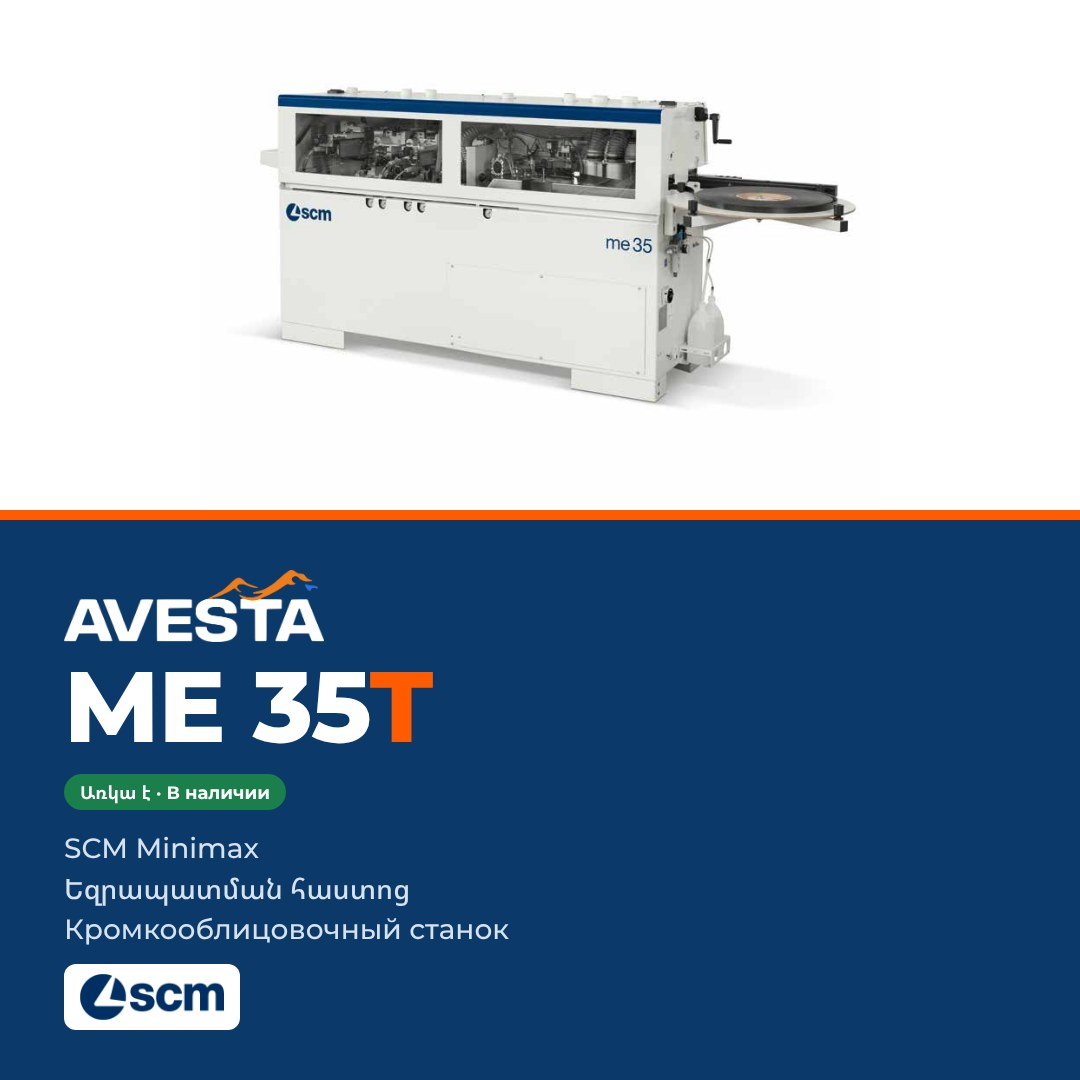
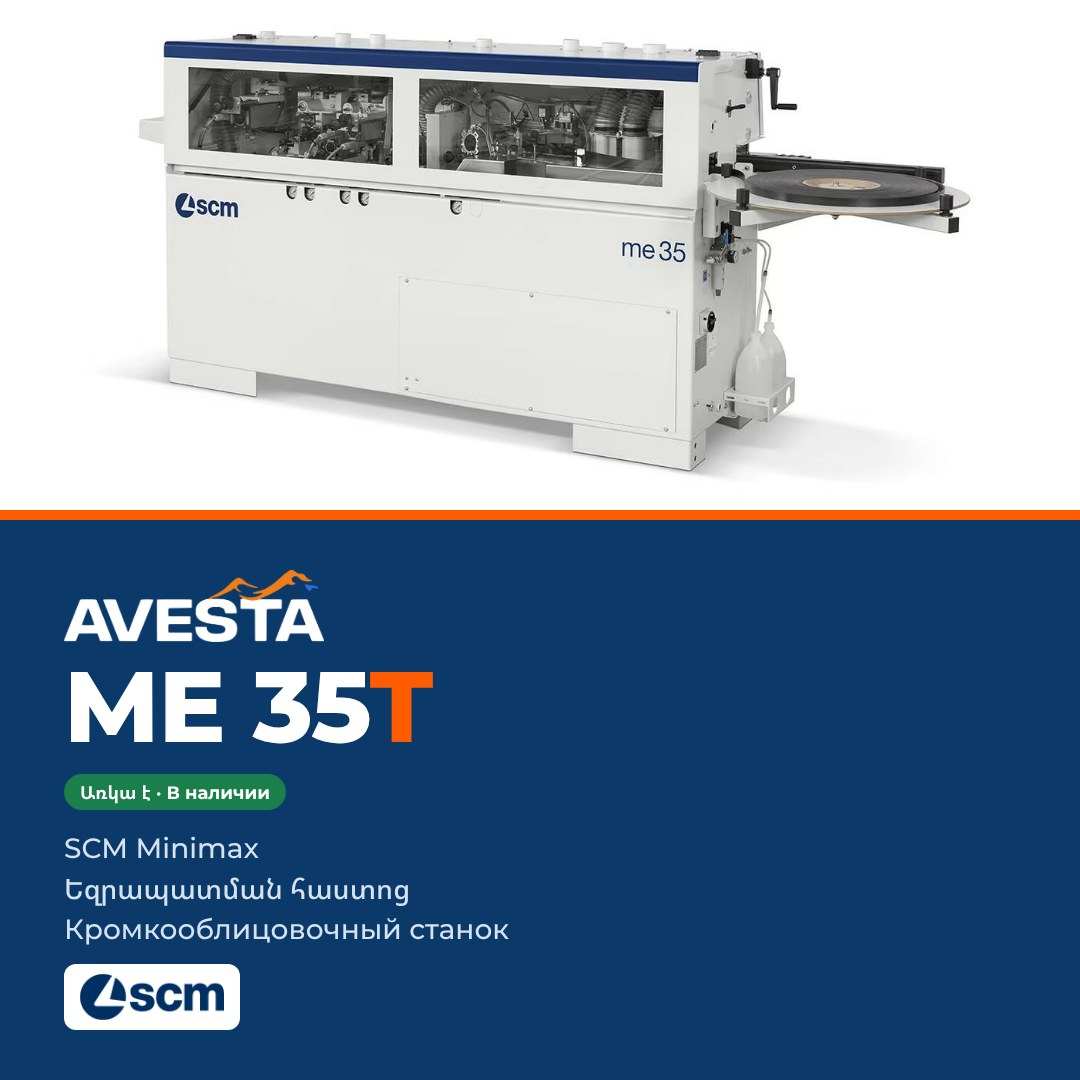
ME 35T: official SCM hero photo, embedded SCM video
Claude-Session: https://claude.ai/code/session_01DBquQubdbDLjKPGwprjYCp

Changed region(s): [[0.1222, 0.0306, 0.9167, 0.4583]]

diff --git a/me35t/index.html b/me35t/index.html
@@ -193,6 +193,8 @@ footer .wrap{display:flex;justify-content:space-between;gap:16px;flex-wrap:wrap;
 @media (max-width:980px){.units{grid-template-columns:1fr 1fr}}@media (max-width:520px){.units{grid-template-columns:1fr}}
 .hero .zicar{width:170px}
 .photo figure{margin:0}
+.vid1{max-width:960px}
+.vid1 iframe{width:100%;aspect-ratio:16/9;border:0;border-radius:18px;background:#000;display:block}
 .photo figcaption{color:var(--muted);font-size:14px;margin-top:8px}
 </style>
 </head>
@@ -203,6 +205,7 @@ footer .wrap{display:flex;justify-content:space-between;gap:16px;flex-wrap:wrap;
     <a class="allm" href="../"><svg width="16" height="16" viewBox="0 0 24 24" fill="currentColor" aria-hidden="true"><rect x="3" y="3" width="7.5" height="7.5" rx="1.5"/><rect x="13.5" y="3" width="7.5" height="7.5" rx="1.5"/><rect x="3" y="13.5" width="7.5" height="7.5" rx="1.5"/><rect x="13.5" y="13.5" width="7.5" height="7.5" rx="1.5"/></svg><span class="t" data-nav="all">Все станки</span></a>
     <nav aria-label="Sections">
       <a href="#units" data-i18n="nav_units">Узлы</a>
+      <a href="#video" data-i18n="nav_video">Видео</a>
       <a href="#live" data-i18n="nav_live">Посмотреть вживую</a>
       <a href="#spec" data-i18n="nav_spec">Характеристики</a>
       <a href="#offer" data-i18n="nav_offer">Цена и условия</a>
@@ -235,7 +238,7 @@ footer .wrap{display:flex;justify-content:space-between;gap:16px;flex-wrap:wrap;
         <a class="btn" href="#spec" data-i18n="cta_spec">Характеристики</a>
       </div>
     </div>
-    <div class="hero-img"><img src="img/hero.jpg" alt="SCM Minimax ME 35" width="783" height="587"></div>
+    <div class="hero-img"><img src="img/hero.jpg" alt="SCM Minimax ME 35" width="1201" height="662"></div>
   </div>
 </section>
 
@@ -267,7 +270,20 @@ footer .wrap{display:flex;justify-content:space-between;gap:16px;flex-wrap:wrap;
   </div>
 </section>
 
-<section class="sec" id="live" style="padding-top:0">
+<section class="sec on-navy" id="video">
+  <div class="wrap">
+    <div class="sec-head">
+      <p class="eyebrow" data-i18n="vid_eyebrow">Видео SCM</p>
+      <h2 data-i18n="vid_title">Новые устройства для ME 35 и ME 40</h2>
+    </div>
+    <div class="vid vid1">
+      <iframe src="https://www.youtube-nocookie.com/embed/p44QrRgiN4c?rel=0&amp;modestbranding=1" title="SCM ME 35 / ME 40" loading="lazy" allow="accelerometer; encrypted-media; gyroscope; picture-in-picture; fullscreen" allowfullscreen></iframe>
+      <p data-i18n="vd1d">Официальное видео SCM о новых устройствах для кромкооблицовочных станков ME 35 и ME 40.</p>
+    </div>
+  </div>
+</section>
+
+<section class="sec" id="live">
   <div class="wrap photo">
     <figure>
       <img src="img/me40.jpg" alt="SCM ME 40 — AVESTA" width="1000" height="750">
@@ -411,8 +427,8 @@ footer .wrap{display:flex;justify-content:space-between;gap:16px;flex-wrap:wrap;
 <script>
 const T={
 ru:{},
-en:{"ct_next": "What to have ready for the call", "ct_l1": "Which panels and which edging you use", "o2": "commissioning and operator training;", "lv3": "Arrange a visit by phone: 041 91 70 02", "o3": "equipment warranty — 1 year.", "ct_addr": "Yerevan, 108/7 Arno Babajanyan St. · Vanadzor", "t2": "Payment", "nav_offer": "Price & terms", "nav_contact": "Contacts", "v7": "3000 × 525 mm, height 904 mm", "r1": "Panel thickness", "t1d": "in AVESTA’s showroom, no waiting for shipment.", "offer_basis": "Incl. VAT. The price includes:", "u8": "eye-S 10″ panel", "v6": "2 diamond cutters Ø80 mm, 3 kW, removal 0.5–2 mm", "terms_title": "Terms", "s5d": "No long waits for parts from abroad", "u5d": "Finishing of the radius on PVC/ABS edging", "s4": "12-month warranty", "u8d": "Touch screen, Maestro Active Edge: units, glue temperature, statistics", "t4": "Connection", "u6": "Glue scraper", "o1": "delivery to your site in Armenia;", "t2d": "100% against invoice.", "st_panel": "mm panel thickness", "u3": "End trimming", "spec_note": "Data: SCM specification and operating manual (Minimax ME 35). The manufacturer may update the design without separate notice.", "nav_units": "Units", "t3d": "by the customer.", "r6": "Pre-milling", "r11": "Dimensions (L × D × H)", "copy": "Copy", "ft": "SCM machinery in Armenia", "n2": "employees", "cur": "AMD", "st_edge": "mm edge thickness", "n4": "brands", "nav_spec": "Specifications", "lv_eyebrow": "See it live", "v2": "0.4–3 mm", "u1d": "2 diamond cutters Ø80 mm, 3 kW motor: true the panel edge before gluing, removal 0.5–2 mm", "offer_title": "Price and terms", "v10": "eye-S, 10″ touch screen", "u4d": "2 motors of 0.35 kW, 12,000 rpm, cutters for R2 radius and solid-wood strips up to 5 mm", "lv1": "ME 35T — in AVESTA’s showroom", "u7d": "2 brushes to clean and polish the edge", "ct_eyebrow": "Contacts", "lv_cap": "SCM ME 40 at AVESTA’s production", "t3": "Unloading", "u1": "Pre-milling", "v3": "up to 5 mm", "u5": "Edge scraper", "s2": "Commissioning", "r2": "Edging in rolls", "lv_title": "ME 35T in the showroom, ME 40 at work", "st_speed": "m/min feed speed", "r9": "Dust extraction", "r8": "Air working pressure", "r4": "Min. part length / width", "price_basis": "incl. VAT · delivery, commissioning and 1-year warranty included", "u7": "Buffing unit", "s1d": "To your site in Armenia", "ct_name": "Alexey Tsiselsky", "v9": "724 + 609 m³/h", "v1": "8–50 mm", "u2": "Glue and edge feed", "u4": "Flush trimming", "nav_live": "See it live", "s5": "Spare-parts stock", "v8": "6.5 bar", "v4": "190 / 110 mm", "u6d": "Removes glue residue from the panel–edge joint", "n1": "years on the market", "spec_eyebrow": "Technical specifications", "hero_lead": "An Italian SCM automatic machine with pre-milling and full finishing: 0.4–3 mm edging on 8–50 mm panels in one pass.", "v5": "7 m/min", "ct_role": "Machinery and engineering, AVESTA", "ct_l2": "How many parts per shift need edging", "r3": "Edging in strips", "r10": "Control", "ab_text": "We run our own production: we work on this kind of equipment ourselves and know what a workshop needs every day.", "offer_eyebrow": "Commercial offer", "s4d": "And service engineers", "lv2": "ME 40 — at work at AVESTA’s production", "s3": "Training", "t1": "In stock", "ab_title": "We launch the machine and stay with you", "cta_spec": "Specifications", "u2d": "Teflon-coated glue pot with quick change, automatic roll feed with guillotine", "un_eyebrow": "Machine units", "t4d": "power supply, 6.5 bar compressed air and dust extraction (724 + 609 m³/h).", "hero_eyebrow": "Edge banding machine · Minimax", "st_kw": "eye-S touch control panel", "ct_title": "Let’s discuss your edging and volumes", "v11": "3342 × 1092 × 1284 mm, incl. edge roll disc", "s3d": "Operators work from day one", "n3": "branches", "s1": "Delivery", "ct_l3": "Room size, available power, and whether you have a compressor and dust extraction", "s2d": "Connection and set-up of the machine", "un_title": "What the machine does in one pass", "cta_offer": "Price & terms", "u3d": "Ø125 mm saw, 12,000 rpm, with corner rounding of the part", "lv_text": "The ME 35T is in AVESTA’s showroom, so you can inspect it before you buy. At our own production an SCM ME 40 is running: it has similar units, and there you can see how this kind of machine handles a workshop’s everyday work.", "r7": "Work table", "r5": "Feed speed", "badge": "In stock in our showroom"},
-hy:{"ct_next": "Ինչ պատրաստել զանգից առաջ", "ct_l1": "Ինչ սալեր և ինչ եզրաժապավեն եք օգտագործում", "o2": "գործարկում և օպերատորի ուսուցում,", "lv3": "Այցի ժամը համաձայնեցրեք հեռախոսով՝ 041 91 70 02", "o3": "սարքավորման երաշխիք՝ 1 տարի։", "ct_addr": "Երևան, Առնո Բաբաջանյան 108/7 · Վանաձոր", "t2": "Վճարում", "nav_offer": "Գին և պայմաններ", "nav_contact": "Կոնտակտներ", "v7": "3000 × 525 մմ, բարձրություն՝ 904 մմ", "r1": "Սալի հաստություն", "t1d": "AVESTA-ի ցուցասրահում՝ առանց մատակարարման սպասելու։", "offer_basis": "ԱԱՀ-ով։ Գինը ներառում է.", "u8": "eye-S 10″ վահանակ", "v6": "2 ադամանդե ֆրեզ Ø80 մմ, 3 կՎտ, հեռացում՝ 0,5–2 մմ", "terms_title": "Պայմաններ", "s5d": "Առանց արտասահմանից երկար սպասելու", "u5d": "Շառավղի մաքրամշակում ՊՎՔ/ABS եզրաժապավենի վրա", "s4": "12 ամիս երաշխիք", "u8d": "Սենսորային էկրան, Maestro Active Edge. հանգույցներ, սոսնձի ջերմաստիճան, վիճակագրություն", "t4": "Միացում", "u6": "Սոսնձի քերիչ", "o1": "առաքում մինչև Ձեր օբյեկտ Հայաստանում,", "t2d": "100%՝ ըստ հաշվի։", "st_panel": "մմ՝ սալի հաստություն", "u3": "Ծայրատում", "spec_note": "Տվյալներ՝ SCM արտադրողի բնութագիր և շահագործման ձեռնարկ (Minimax ME 35)։ Արտադրողը կարող է թարմացնել կառուցվածքը՝ առանց առանձին ծանուցման։", "nav_units": "Հանգույցներ", "t3d": "պատվիրատուի ուժերով։", "r6": "Նախնական ֆրեզերում", "r11": "Չափսեր (Ե × Խ × Բ)", "copy": "Պատճենել", "ft": "SCM սարքավորումներ Հայաստանում", "n2": "աշխատակից", "cur": "դրամ", "st_edge": "մմ՝ եզրաժապավենի հաստություն", "n4": "ապրանքանիշ", "nav_spec": "Բնութագրեր", "lv_eyebrow": "Տեսնել տեղում", "v2": "0,4–3 մմ", "u1d": "2 ադամանդե ֆրեզ Ø80 մմ, 3 կՎտ շարժիչ. հարթեցնում են սալի եզրը մինչև սոսինձը, հեռացում՝ 0,5–2 մմ", "offer_title": "Գին և պայմաններ", "v10": "eye-S, 10″ սենսորային էկրան", "u4d": "2 շարժիչ՝ 0,35 կՎտ, 12 000 պտ/րոպե, ֆրեզներ R2 շառավղի և մինչև 5 մմ ձողիկի համար", "lv1": "ME 35T՝ AVESTA-ի ցուցասրահում", "u7d": "2 խոզանակ՝ եզրաժապավենը մաքրելու և փայլեցնելու համար", "ct_eyebrow": "Կոնտակտներ", "lv_cap": "SCM ME 40-ը AVESTA-ի արտադրությունում", "t3": "Բեռնաթափում", "u1": "Նախնական ֆրեզերում", "v3": "մինչև 5 մմ", "u5": "Եզրաժապավենի քերիչ", "s2": "Գործարկում", "r2": "Եզրաժապավեն գլանափաթեթով", "lv_title": "ME 35T-ն՝ ցուցասրահում, ME 40-ը՝ աշխատանքում", "st_speed": "մ/րոպե՝ մատուցման արագություն", "r9": "Փոշեքաշում", "r8": "Օդի աշխատանքային ճնշում", "r4": "Դետալի նվազ. երկարություն / լայնություն", "price_basis": "ԱԱՀ-ով · առաքումը, գործարկումը և 1 տարվա երաշխիքը ներառված են", "u7": "Փայլեցման հանգույց", "s1d": "Մինչև ձեր արտադրամասը Հայաստանում", "ct_name": "Ալեքսեյ Ցիսելսկի", "v9": "724 + 609 մ³/ժ", "v1": "8–50 մմ", "u2": "Սոսինձ և եզրաժապավենի մատուցում", "u4": "Ավելցուկի հեռացում", "nav_live": "Տեսնել տեղում", "s5": "Պահեստամասերի պահեստ", "v8": "6,5 բար", "v4": "190 / 110 մմ", "u6d": "Հեռացնում է սոսնձի մնացորդները սալի և եզրաժապավենի միացման տեղից", "n1": "տարի շուկայում", "spec_eyebrow": "Տեխնիկական բնութագրեր", "hero_lead": "Իտալական SCM ավտոմատ՝ նախնական ֆրեզերմամբ և ամբողջական մաքրամշակմամբ. 0,4–3 մմ եզրաժապավեն 8–50 մմ սալերի վրա՝ մեկ անցումով։", "v5": "7 մ/րոպե", "ct_role": "Սարքավորումներ և ինժեներիա, AVESTA", "ct_l2": "Քանի դետալ է պետք եզրապատել մեկ հերթափոխում", "r3": "Եզրաժապավեն ձողիկներով", "r10": "Կառավարում", "ab_text": "Մենք ունենք սեփական արտադրություն․ ինքներս ենք աշխատում նման սարքավորումներով և գիտենք, թե ինչ է պետք արտադրամասին ամեն օր։", "offer_eyebrow": "Առևտրային առաջարկ", "s4d": "Եվ սպասարկման ինժեներներ", "lv2": "ME 40՝ աշխատանքում, AVESTA-ի արտադրությունում", "s3": "Ուսուցում", "t1": "Առկա է", "ab_title": "Գործարկում ենք հաստոցը և մնում ենք կողքին", "cta_spec": "Բնութագրեր", "u2d": "Տեֆլոնային ծածկույթով բաք՝ արագ փոխարինմամբ, գլանափաթեթի ավտոմատ մատուցում գիլյոտինով", "un_eyebrow": "Հաստոցի հանգույցներ", "t4d": "էլեկտրասնուցում, 6,5 բար սեղմված օդ և փոշեքաշում (724 + 609 մ³/ժ)։", "hero_eyebrow": "Եզրապատման հաստոց · Minimax", "st_kw": "eye-S սենսորային վահանակ", "ct_title": "Քննարկենք ձեր եզրապատումը և ծավալները", "v11": "3342 × 1092 × 1284 մմ՝ գլանափաթեթի սկավառակով", "s3d": "Օպերատորներն աշխատում են առաջին օրվանից", "n3": "մասնաճյուղ", "s1": "Առաքում", "ct_l3": "Տարածքի չափը, ցանցի հզորությունը, կա՞ արդյոք կոմպրեսոր և փոշեքաշում", "s2d": "Հաստոցի միացում և կարգաբերում", "un_title": "Ինչ է անում հաստոցը մեկ անցումով", "cta_offer": "Գին և պայմաններ", "u3d": "Սղոց Ø125 մմ, 12 000 պտ/րոպե, դետալի անկյունների կլորացմամբ", "lv_text": "ME 35T-ն գտնվում է AVESTA-ի ցուցասրահում, և այն կարելի է զննել գնելուց առաջ։ Իսկ մեր սեփական արտադրությունում աշխատում է SCM ME 40-ը. այն ունի նման հանգույցներ, և այնտեղ երևում է, թե ինչպես է նման հաստոցը կատարում արտադրամասի ամենօրյա աշխատանքը։", "r7": "Աշխատանքային սեղան", "r5": "Մատուցման արագություն", "badge": "Առկա է ցուցասրահում"}
+en:{"price_basis": "incl. VAT · delivery, commissioning and 1-year warranty included", "v10": "eye-S, 10″ touch screen", "ct_l3": "Room size, available power, and whether you have a compressor and dust extraction", "ft": "SCM machinery in Armenia", "lv2": "ME 40 — at work at AVESTA’s production", "r7": "Work table", "vd1d": "Official SCM video on new devices for the ME 35 and ME 40 edge banders.", "nav_offer": "Price & terms", "lv_eyebrow": "See it live", "u1d": "2 diamond cutters Ø80 mm, 3 kW motor: true the panel edge before gluing, removal 0.5–2 mm", "u3": "End trimming", "u6d": "Removes glue residue from the panel–edge joint", "s4d": "And service engineers", "t3": "Unloading", "ab_title": "We launch the machine and stay with you", "s1": "Delivery", "copy": "Copy", "vid_title": "New devices for the ME 35 and ME 40", "u6": "Glue scraper", "lv3": "Arrange a visit by phone: 041 91 70 02", "lv1": "ME 35T — in AVESTA’s showroom", "nav_units": "Units", "r5": "Feed speed", "n3": "branches", "ct_l2": "How many parts per shift need edging", "v6": "2 diamond cutters Ø80 mm, 3 kW, removal 0.5–2 mm", "badge": "In stock in our showroom", "o3": "equipment warranty — 1 year.", "r9": "Dust extraction", "r2": "Edging in rolls", "r8": "Air working pressure", "s4": "12-month warranty", "u8d": "Touch screen, Maestro Active Edge: units, glue temperature, statistics", "t1": "In stock", "offer_title": "Price and terms", "cta_offer": "Price & terms", "s5d": "No long waits for parts from abroad", "v4": "190 / 110 mm", "nav_contact": "Contacts", "ct_next": "What to have ready for the call", "r1": "Panel thickness", "u8": "eye-S 10″ panel", "ct_name": "Alexey Tsiselsky", "st_speed": "m/min feed speed", "st_edge": "mm edge thickness", "t4d": "power supply, 6.5 bar compressed air and dust extraction (724 + 609 m³/h).", "u1": "Pre-milling", "r6": "Pre-milling", "v7": "3000 × 525 mm, height 904 mm", "s2d": "Connection and set-up of the machine", "u2d": "Teflon-coated glue pot with quick change, automatic roll feed with guillotine", "r4": "Min. part length / width", "o2": "commissioning and operator training;", "t4": "Connection", "ct_eyebrow": "Contacts", "v3": "up to 5 mm", "ct_l1": "Which panels and which edging you use", "v1": "8–50 mm", "s1d": "To your site in Armenia", "ct_role": "Machinery and engineering, AVESTA", "spec_note": "Data: SCM specification and operating manual (Minimax ME 35). The manufacturer may update the design without separate notice.", "un_eyebrow": "Machine units", "offer_basis": "Incl. VAT. The price includes:", "lv_cap": "SCM ME 40 at AVESTA’s production", "u2": "Glue and edge feed", "s3d": "Operators work from day one", "st_kw": "eye-S touch control panel", "n2": "employees", "cur": "AMD", "hero_eyebrow": "Edge banding machine · Minimax", "nav_spec": "Specifications", "v5": "7 m/min", "s2": "Commissioning", "s3": "Training", "t2d": "100% against invoice.", "cta_spec": "Specifications", "un_title": "What the machine does in one pass", "hero_lead": "An Italian SCM automatic machine with pre-milling and full finishing: 0.4–3 mm edging on 8–50 mm panels in one pass.", "t2": "Payment", "ab_text": "We run our own production: we work on this kind of equipment ourselves and know what a workshop needs every day.", "nav_video": "Video", "u4d": "2 motors of 0.35 kW, 12,000 rpm, cutters for R2 radius and solid-wood strips up to 5 mm", "ct_title": "Let’s discuss your edging and volumes", "u5": "Edge scraper", "v2": "0.4–3 mm", "nav_live": "See it live", "n1": "years on the market", "s5": "Spare-parts stock", "u3d": "Ø125 mm saw, 12,000 rpm, with corner rounding of the part", "n4": "brands", "t1d": "in AVESTA’s showroom, no waiting for shipment.", "v9": "724 + 609 m³/h", "r3": "Edging in strips", "st_panel": "mm panel thickness", "offer_eyebrow": "Commercial offer", "lv_text": "The ME 35T is in AVESTA’s showroom, so you can inspect it before you buy. At our own production an SCM ME 40 is running: it has similar units, and there you can see how this kind of machine handles a workshop’s everyday work.", "r11": "Dimensions (L × D × H)", "lv_title": "ME 35T in the showroom, ME 40 at work", "terms_title": "Terms", "u7": "Buffing unit", "ct_addr": "Yerevan, 108/7 Arno Babajanyan St. · Vanadzor", "u5d": "Finishing of the radius on PVC/ABS edging", "t3d": "by the customer.", "r10": "Control", "u7d": "2 brushes to clean and polish the edge", "u4": "Flush trimming", "v11": "3342 × 1092 × 1284 mm, incl. edge roll disc", "vid_eyebrow": "SCM video", "o1": "delivery to your site in Armenia;", "spec_eyebrow": "Technical specifications", "v8": "6.5 bar"},
+hy:{"price_basis": "ԱԱՀ-ով · առաքումը, գործարկումը և 1 տարվա երաշխիքը ներառված են", "v10": "eye-S, 10″ սենսորային էկրան", "ct_l3": "Տարածքի չափը, ցանցի հզորությունը, կա՞ արդյոք կոմպրեսոր և փոշեքաշում", "ft": "SCM սարքավորումներ Հայաստանում", "lv2": "ME 40՝ աշխատանքում, AVESTA-ի արտադրությունում", "r7": "Աշխատանքային սեղան", "vd1d": "SCM-ի պաշտոնական տեսանյութը ME 35 և ME 40 եզրապատման հաստոցների նոր սարքերի մասին։", "nav_offer": "Գին և պայմաններ", "lv_eyebrow": "Տեսնել տեղում", "u1d": "2 ադամանդե ֆրեզ Ø80 մմ, 3 կՎտ շարժիչ. հարթեցնում են սալի եզրը մինչև սոսինձը, հեռացում՝ 0,5–2 մմ", "u3": "Ծայրատում", "u6d": "Հեռացնում է սոսնձի մնացորդները սալի և եզրաժապավենի միացման տեղից", "s4d": "Եվ սպասարկման ինժեներներ", "t3": "Բեռնաթափում", "ab_title": "Գործարկում ենք հաստոցը և մնում ենք կողքին", "s1": "Առաքում", "copy": "Պատճենել", "vid_title": "Նոր սարքեր ME 35-ի և ME 40-ի համար", "u6": "Սոսնձի քերիչ", "lv3": "Այցի ժամը համաձայնեցրեք հեռախոսով՝ 041 91 70 02", "lv1": "ME 35T՝ AVESTA-ի ցուցասրահում", "nav_units": "Հանգույցներ", "r5": "Մատուցման արագություն", "n3": "մասնաճյուղ", "ct_l2": "Քանի դետալ է պետք եզրապատել մեկ հերթափոխում", "v6": "2 ադամանդե ֆրեզ Ø80 մմ, 3 կՎտ, հեռացում՝ 0,5–2 մմ", "badge": "Առկա է ցուցասրահում", "o3": "սարքավորման երաշխիք՝ 1 տարի։", "r9": "Փոշեքաշում", "r2": "Եզրաժապավեն գլանափաթեթով", "r8": "Օդի աշխատանքային ճնշում", "s4": "12 ամիս երաշխիք", "u8d": "Սենսորային էկրան, Maestro Active Edge. հանգույցներ, սոսնձի ջերմաստիճան, վիճակագրություն", "t1": "Առկա է", "offer_title": "Գին և պայմաններ", "cta_offer": "Գին և պայմաններ", "s5d": "Առանց արտասահմանից երկար սպասելու", "v4": "190 / 110 մմ", "nav_contact": "Կոնտակտներ", "ct_next": "Ինչ պատրաստել զանգից առաջ", "r1": "Սալի հաստություն", "u8": "eye-S 10″ վահանակ", "ct_name": "Ալեքսեյ Ցիսելսկի", "st_speed": "մ/րոպե՝ մատուցման արագություն", "st_edge": "մմ՝ եզրաժապավենի հաստություն", "t4d": "էլեկտրասնուցում, 6,5 բար սեղմված օդ և փոշեքաշում (724 + 609 մ³/ժ)։", "u1": "Նախնական ֆրեզերում", "r6": "Նախնական ֆրեզերում", "v7": "3000 × 525 մմ, բարձրություն՝ 904 մմ", "s2d": "Հաստոցի միացում և կարգաբերում", "u2d": "Տեֆլոնային ծածկույթով բաք՝ արագ փոխարինմամբ, գլանափաթեթի ավտոմատ մատուցում գիլյոտինով", "r4": "Դետալի նվազ. երկարություն / լայնություն", "o2": "գործարկում և օպերատորի ուսուցում,", "t4": "Միացում", "ct_eyebrow": "Կոնտակտներ", "v3": "մինչև 5 մմ", "ct_l1": "Ինչ սալեր և ինչ եզրաժապավեն եք օգտագործում", "v1": "8–50 մմ", "s1d": "Մինչև ձեր արտադրամասը Հայաստանում", "ct_role": "Սարքավորումներ և ինժեներիա, AVESTA", "spec_note": "Տվյալներ՝ SCM արտադրողի բնութագիր և շահագործման ձեռնարկ (Minimax ME 35)։ Արտադրողը կարող է թարմացնել կառուցվածքը՝ առանց առանձին ծանուցման։", "un_eyebrow": "Հաստոցի հանգույցներ", "offer_basis": "ԱԱՀ-ով։ Գինը ներառում է.", "lv_cap": "SCM ME 40-ը AVESTA-ի արտադրությունում", "u2": "Սոսինձ և եզրաժապավենի մատուցում", "s3d": "Օպերատորներն աշխատում են առաջին օրվանից", "st_kw": "eye-S սենսորային վահանակ", "n2": "աշխատակից", "cur": "դրամ", "hero_eyebrow": "Եզրապատման հաստոց · Minimax", "nav_spec": "Բնութագրեր", "v5": "7 մ/րոպե", "s2": "Գործարկում", "s3": "Ուսուցում", "t2d": "100%՝ ըստ հաշվի։", "cta_spec": "Բնութագրեր", "un_title": "Ինչ է անում հաստոցը մեկ անցումով", "hero_lead": "Իտալական SCM ավտոմատ՝ նախնական ֆրեզերմամբ և ամբողջական մաքրամշակմամբ. 0,4–3 մմ եզրաժապավեն 8–50 մմ սալերի վրա՝ մեկ անցումով։", "t2": "Վճարում", "ab_text": "Մենք ունենք սեփական արտադրություն․ ինքներս ենք աշխատում նման սարքավորումներով և գիտենք, թե ինչ է պետք արտադրամասին ամեն օր։", "nav_video": "Տեսանյութ", "u4d": "2 շարժիչ՝ 0,35 կՎտ, 12 000 պտ/րոպե, ֆրեզներ R2 շառավղի և մինչև 5 մմ ձողիկի համար", "ct_title": "Քննարկենք ձեր եզրապատումը և ծավալները", "u5": "Եզրաժապավենի քերիչ", "v2": "0,4–3 մմ", "nav_live": "Տեսնել տեղում", "n1": "տարի շուկայում", "s5": "Պահեստամասերի պահեստ", "u3d": "Սղոց Ø125 մմ, 12 000 պտ/րոպե, դետալի անկյունների կլորացմամբ", "n4": "ապրանքանիշ", "t1d": "AVESTA-ի ցուցասրահում՝ առանց մատակարարման սպասելու։", "v9": "724 + 609 մ³/ժ", "r3": "Եզրաժապավեն ձողիկներով", "st_panel": "մմ՝ սալի հաստություն", "offer_eyebrow": "Առևտրային առաջարկ", "lv_text": "ME 35T-ն գտնվում է AVESTA-ի ցուցասրահում, և այն կարելի է զննել գնելուց առաջ։ Իսկ մեր սեփական արտադրությունում աշխատում է SCM ME 40-ը. այն ունի նման հանգույցներ, և այնտեղ երևում է, թե ինչպես է նման հաստոցը կատարում արտադրամասի ամենօրյա աշխատանքը։", "r11": "Չափսեր (Ե × Խ × Բ)", "lv_title": "ME 35T-ն՝ ցուցասրահում, ME 40-ը՝ աշխատանքում", "terms_title": "Պայմաններ", "u7": "Փայլեցման հանգույց", "ct_addr": "Երևան, Առնո Բաբաջանյան 108/7 · Վանաձոր", "u5d": "Շառավղի մաքրամշակում ՊՎՔ/ABS եզրաժապավենի վրա", "t3d": "պատվիրատուի ուժերով։", "r10": "Կառավարում", "u7d": "2 խոզանակ՝ եզրաժապավենը մաքրելու և փայլեցնելու համար", "u4": "Ավելցուկի հեռացում", "v11": "3342 × 1092 × 1284 մմ՝ գլանափաթեթի սկավառակով", "vid_eyebrow": "SCM տեսանյութ", "o1": "առաքում մինչև Ձեր օբյեկտ Հայաստանում,", "spec_eyebrow": "Տեխնիկական բնութագրեր", "v8": "6,5 բար"}
 };
 document.querySelectorAll('[data-i18n]').forEach(el=>{T.ru[el.dataset.i18n]=el.textContent});
 T.ru.copied="Скопировано";
